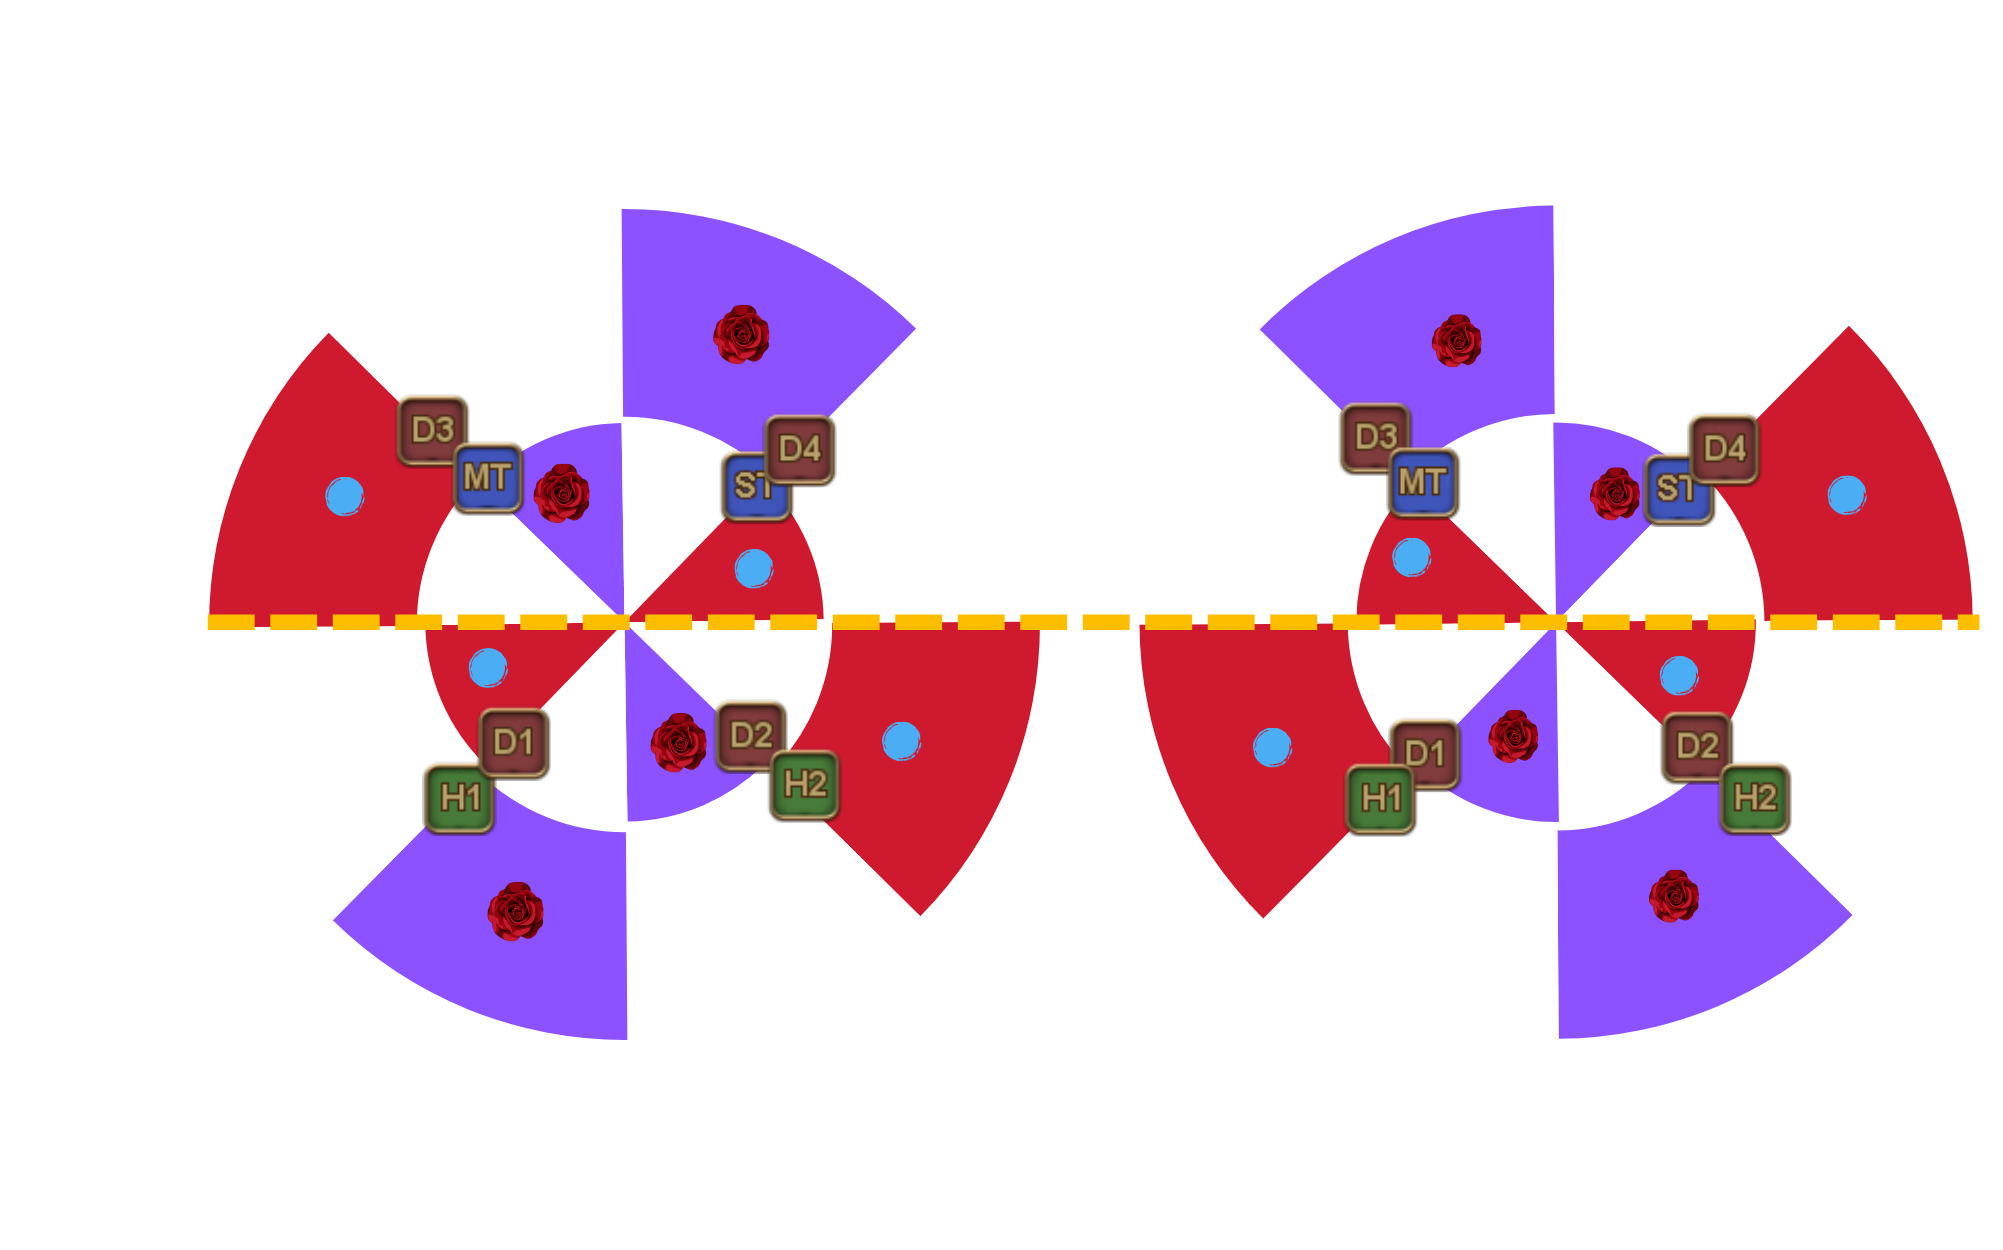
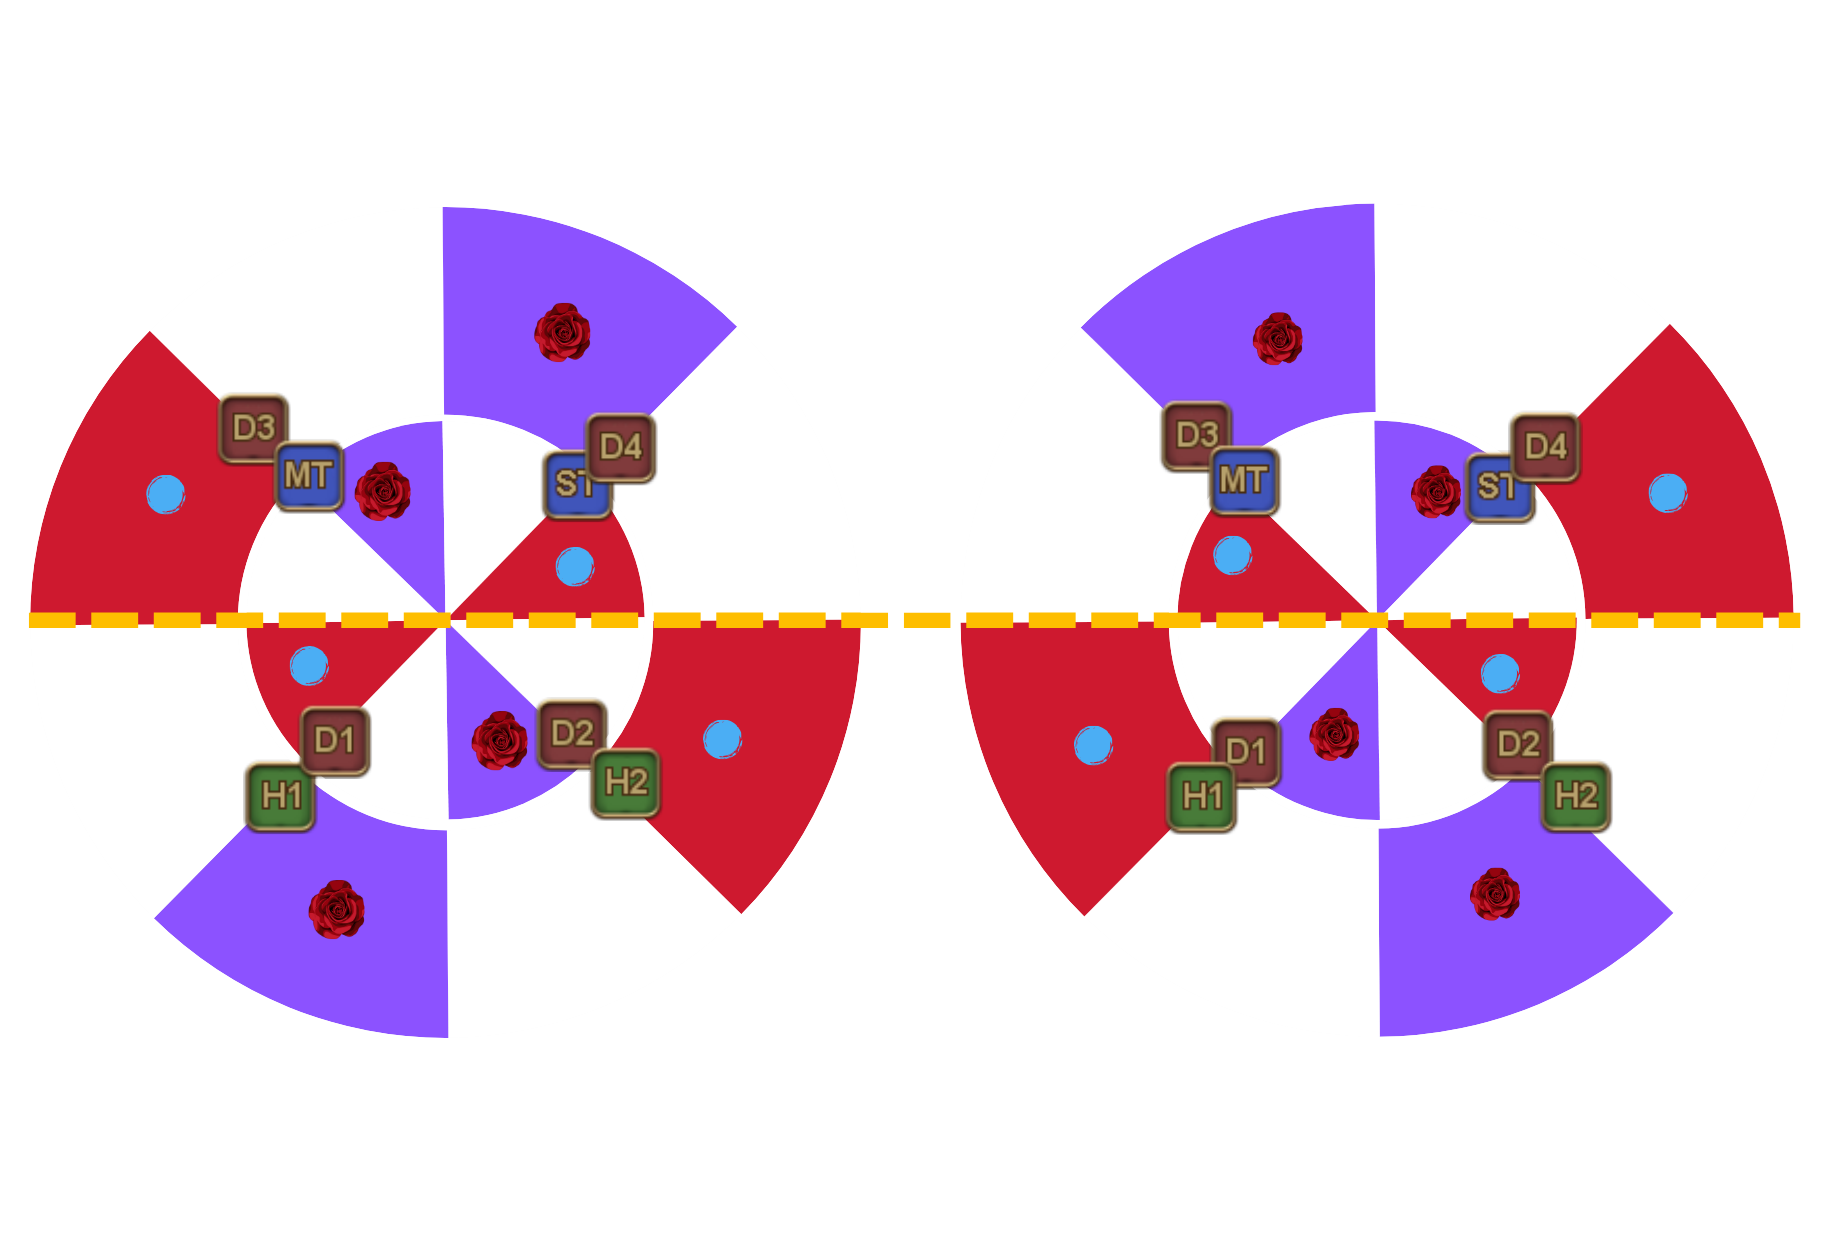
images updated

diff --git a/recollection.html b/recollection.html
@@ -139,11 +139,10 @@ TH in, DPS Out </em></strong> </p>
         <div class="blue_button"> <span class="blue_button_number"> 11</span> Bloom 4 tether </div>
         <div class="strat_image_container">
           <div class="strat_image recollection_11">
-            <p class="whiteText"> <strong><em>
+            <p class="whiteText"> 
                 STACK TRUE SOUTH FOR TETHERS
-              
               <br>
-            </em></strong></p>
+            </p>
           </div>
         </div>
       </div>
@@ -219,11 +218,11 @@ body {
         min-width: 300px;
     }
     .cheatsheet_position_image {
-    background-image: url("Assets/Images/Recollection/EX4_Cheatsheet.png");
+    background-image: url("Assets/Images/cheatsheet/EX4_JP_EN.png");
 
 }
     .cheatsheet_image {
-    background-image: url("Assets/Images/Recollection/EX4_Cheatsheet.png");
+    background-image: url("Assets/Images/cheatsheet/EX4_JP_EN.png");
     height: 700px;
 }
     </style>

diff --git a/bee.css b/bee.css
@@ -276,6 +276,7 @@ h1 {
   border: 3px dashed #4BAEF4;
   background-color: #121A20;
   height: 100%;	
+  text-align: center;
   
 }
 .strat_image {
@@ -284,6 +285,7 @@ h1 {
   vertical-align: middle;
   background-repeat: no-repeat;
   height: 300px;
+  text-align: center;
   
 }
 .strat_image_big{
@@ -291,9 +293,9 @@ h1 {
   background-position: center;
   vertical-align: middle;
   background-repeat: no-repeat;
-  width:100%;
-  max-width: 1000px;
-  max-height: 800px;
+  width:800px;
+  height: 600px;
+  text-align: center;
 }
 .fru-strat1 {
   background-image: url("Assets/Images/fru-strat1.png");
